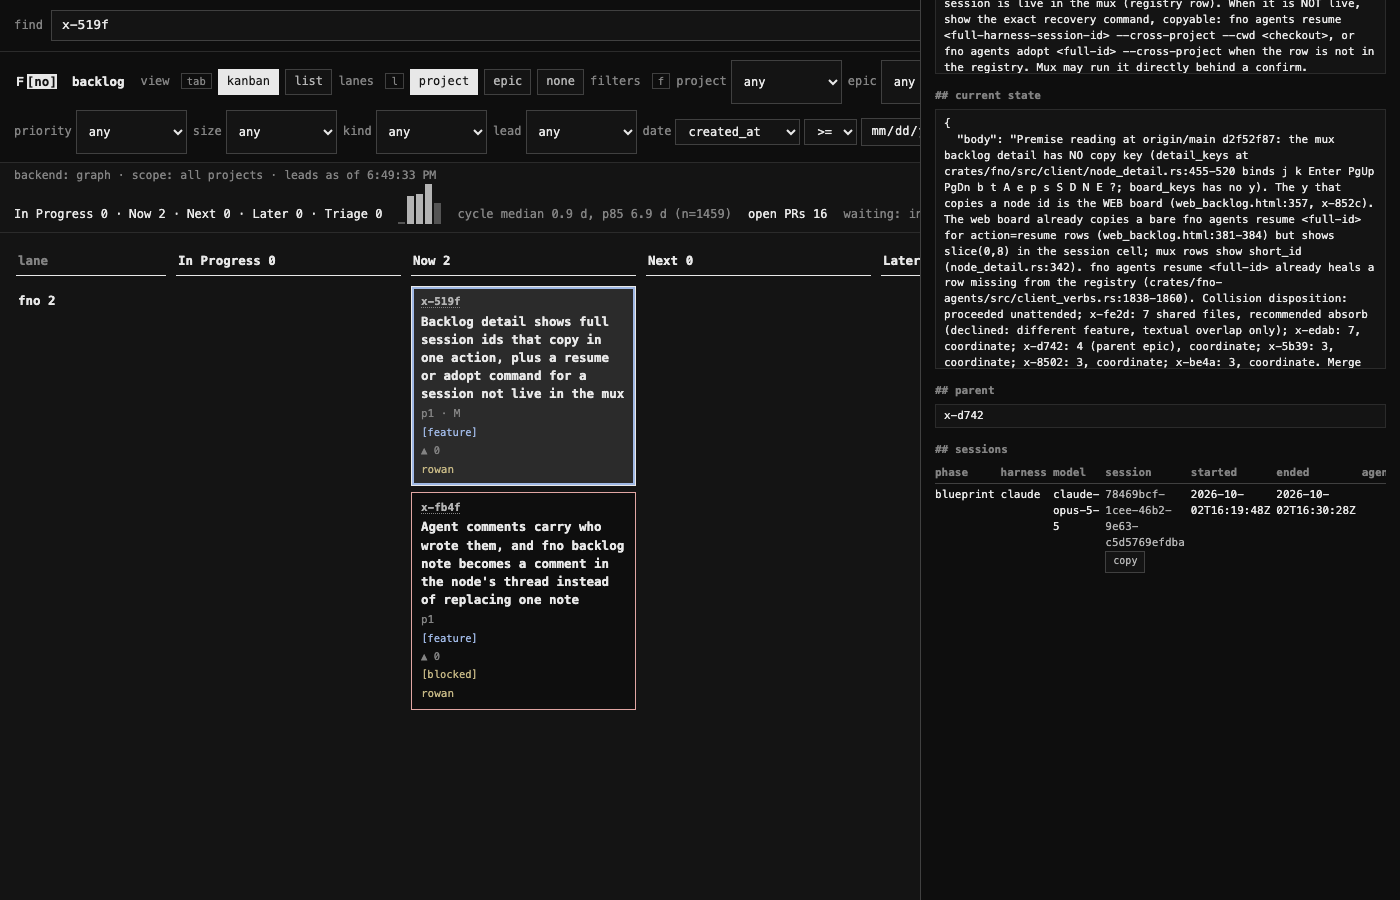
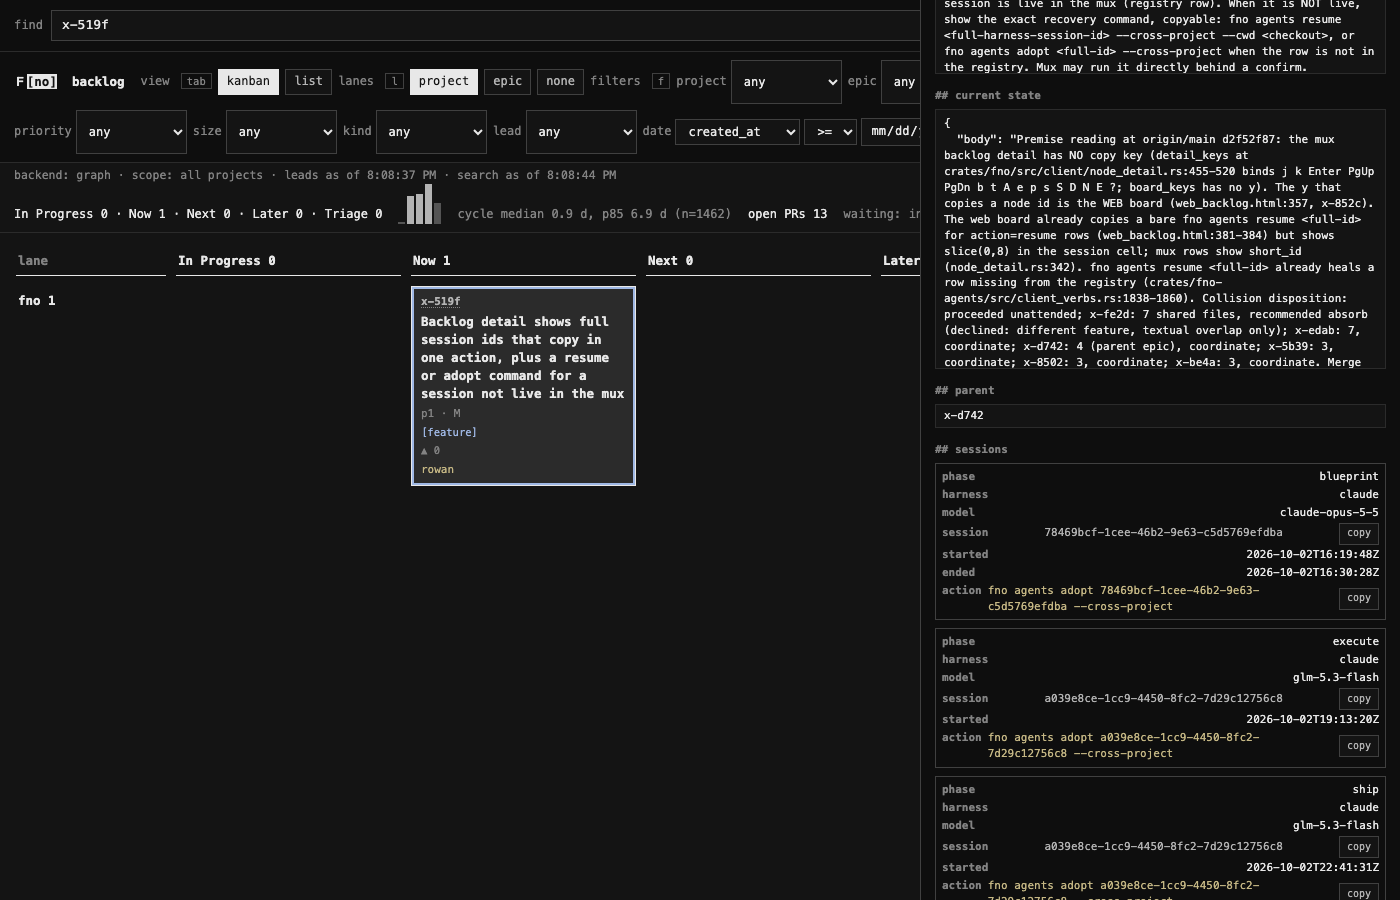
fix(backlog): stack the session rows on the panel width, not the viewport

diff --git a/crates/fno/src/web_backlog.html b/crates/fno/src/web_backlog.html
@@ -89,7 +89,7 @@ button, select, input { font: inherit; }
 .card.blocked { border-color: var(--red); }
 .more { color: var(--overlay1); font-size: 11px; padding: 2px 9px; }
 .empty { color: var(--overlay1); padding: 10px 2px; }
-#panel { position: fixed; top: var(--fno-nav-h, 0px); right: 0; bottom: 0; width: min(480px, 46vw); background: var(--mantle); border-left: 1px solid var(--surface1); overflow-y: auto; padding: 10px 14px 24px; z-index: 500; }
+#panel { position: fixed; top: var(--fno-nav-h, 0px); right: 0; bottom: 0; width: min(480px, 46vw); background: var(--mantle); border-left: 1px solid var(--surface1); overflow-y: auto; padding: 10px 14px 24px; z-index: 500; container-type: inline-size; container-name: panel; }
 #panelgrip { position: absolute; left: 0; top: 0; bottom: 0; width: 6px; cursor: col-resize; }
 #panel[hidden] { display: none; }
 #panelhead { display: flex; justify-content: flex-end; margin-bottom: 4px; }
@@ -120,7 +120,7 @@ button, select, input { font: inherit; }
 .sess td { padding: 3px 6px 3px 0; vertical-align: top; }
 .sess td.dim { color: var(--overlay1); }
 .sess .sid { color: var(--subtext0); }
-@media (max-width: 720px) {
+@container panel (max-width: 700px) {
   .sess thead { display: none; }
   .sess tr { display: block; border: 1px solid var(--surface1); margin: 0 0 8px; padding: 4px 6px; }
   .sess td { display: flex; gap: 6px; justify-content: space-between; align-items: baseline; padding: 1px 0; }
